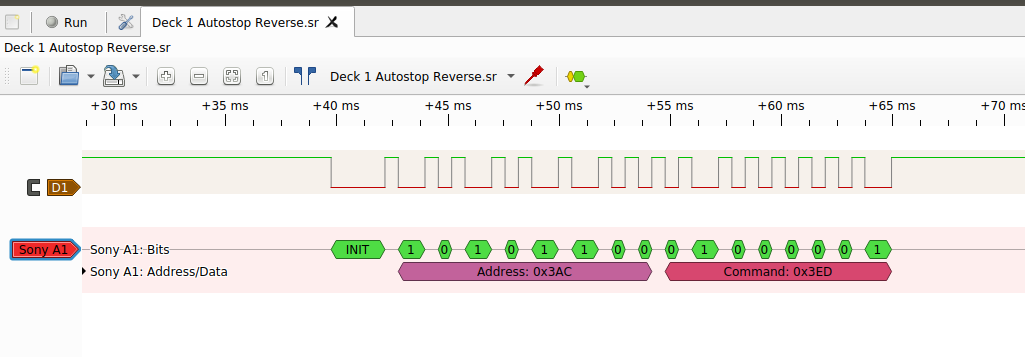
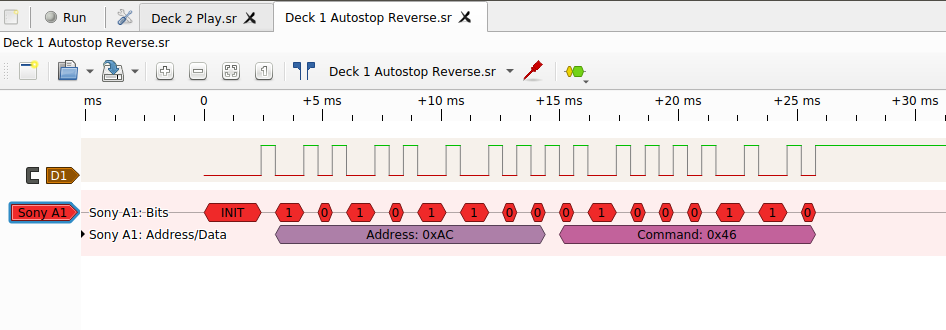
Fixed bug decoding address byte. Allow missing falling edge on first signal sample

diff --git a/a1/pd.py b/a1/pd.py
@@ -67,7 +67,7 @@ class Decoder(srd.Decoder):
 
     def handle_bit(self): 
         # Find falling edge
-        self.wait({0: 'f'})
+        self.wait({0: 'f', 0: 'l'})
         edge_start = self.samplenum
         if (self.bitcount == 0):
             self.byte_start = self.samplenum
@@ -81,7 +81,6 @@ class Decoder(srd.Decoder):
 
         if (pulse_width > PW_INIT):
             self.put(edge_start, edge_end, self.out_ann, [0, ["INIT", "IN"]])
-            self.state = STATE_READ_ADDR
             self.bitcount = 0
             self.databyte = 0
             return RC_INIT
@@ -97,16 +96,21 @@ class Decoder(srd.Decoder):
     def decode(self):
         while True:
             bit = self.handle_bit()
-            if (self.state == STATE_READ_ADDR):
+            if (bit == RC_INIT):
+                # Reset the state machine whenever we see an initialzation pulse
+                self.state = STATE_READ_ADDR
+            elif (self.state == STATE_READ_ADDR):
                 self.databyte = self.databyte | ((bit << (8 - self.bitcount)))
                 if (self.bitcount >= 8):
                     byte_end = self.samplenum
-                    self.put(self.byte_start, byte_end, self.out_ann, [1, ["Address: 0x{:X}".format(self.databyte), "ADDR: 0x{:X}".format(self.databyte), "0x{:X}".format(self.databyte), "{:X}".format(self.databyte)]])
+                    self.put(self.byte_start, byte_end, self.out_ann, [1, ["Address: 0x{:02X}".format(self.databyte), "ADDR: 0x{:02X}".format(self.databyte), "0x{:02X}".format(self.databyte), "{:02X}".format(self.databyte)]])
                     self.state = STATE_READ_CMD
                     self.bitcount = 0
+                    self.databyte = 0
             elif (self.state == STATE_READ_CMD):
                 self.databyte = self.databyte | ((bit << (8 - self.bitcount)))
                 if (self.bitcount >= 8):
                     byte_end = self.samplenum
-                    self.put(self.byte_start, byte_end, self.out_ann, [2, ["Command: 0x{:X}".format(self.databyte), "CMD: 0x{:X}".format(self.databyte), "0x{:X}".format(self.databyte), "{:X}".format(self.databyte)]])
+                    self.put(self.byte_start, byte_end, self.out_ann, [2, ["Command: 0x{:02X}".format(self.databyte), "CMD: 0x{:02X}".format(self.databyte), "0x{:02X}".format(self.databyte), "{:02X}".format(self.databyte)]])
                     self.bitcount = 0
+                    self.databyte = 0
